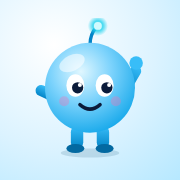
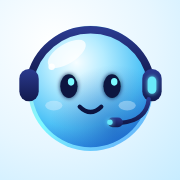
Nuevo personaje NavIA: variante C1 "Copiloto pulido"
Esfera azul claro con ojos luminosos, audífonos con micrófono, orbes
flotantes y base holográfica. Los audífonos van en un grupo aparte
(prop headset) para poder quitarlos. La versión compacta (sin base ni
orbes) se usa en el encabezado, el saludo del estudiante y los íconos.
Se regeneran icon.svg, apple-icon, los íconos de la PWA (incluido el
maskable) y public/brand/navia.svg, todos con fondo claro.

Claude-Session: https://claude.ai/code/session_01VyPdaHP5iYDTn8KeQqyUSR

diff --git a/src/features/brand/NaviaAgent.tsx b/src/features/brand/NaviaAgent.tsx
@@ -1,11 +1,28 @@
 /**
- * NavIA, el agente y copiloto: una bolita azul claro con cara, bracitos y piernitas, y una
- * antena que "escucha" la ruta. Diseño propio. `animated` la hace flotar, parpadear y saludar.
+ * NavIA, el agente y copiloto (variante C1 "Copiloto pulido"): una esfera azul claro con ojos
+ * luminosos, audífonos con micrófono, orbes flotantes y una base holográfica.
+ * - `animated`: flota, parpadea, los orbes orbitan y las luces laten (saludo de entrada).
+ * - `headset`: audífonos y micrófono; están en un solo grupo para poder quitarlos fácil.
+ * - `compact`: solo el personaje, sin base ni orbes; para el encabezado y tamaños pequeños.
+ * Los ids de los degradados llevan prefijo `nv-` para no chocar con otros SVG de la página.
  */
-export function NaviaAgent({ size = 96, animated = false, className = '' }: { size?: number; animated?: boolean; className?: string }) {
+export function NaviaAgent({
+  size = 96,
+  animated = false,
+  headset = true,
+  compact = false,
+  className = '',
+}: {
+  size?: number;
+  animated?: boolean;
+  headset?: boolean;
+  compact?: boolean;
+  className?: string;
+}) {
+  const a = (cls: string) => (animated ? cls : undefined);
   return (
     <svg
-      viewBox="0 0 128 128"
+      viewBox={compact ? '30 22 140 140' : '0 0 200 200'}
       width={size}
       height={size}
       role="img"
@@ -13,67 +30,109 @@ export function NaviaAgent({ size = 96, animated = false, className = '' }: { si
       className={`${animated ? 'agent-float' : ''} ${className}`}
     >
       <defs>
-        <radialGradient id="nb-body" cx="40%" cy="32%" r="75%">
-          <stop offset="0" stopColor="#e0f7ff" />
-          <stop offset="0.45" stopColor="#7dd3fc" />
-          <stop offset="1" stopColor="#0ea5e9" />
+        <radialGradient id="nv-body" cx="38%" cy="28%" r="80%">
+          <stop offset="0" stopColor="#F7FDFF" />
+          <stop offset=".3" stopColor="#B5ECFF" />
+          <stop offset=".7" stopColor="#4FC3F7" />
+          <stop offset="1" stopColor="#1F7BE0" />
         </radialGradient>
-        <linearGradient id="nb-limb" x1="0" y1="0" x2="0" y2="1">
-          <stop offset="0" stopColor="#38bdf8" />
-          <stop offset="1" stopColor="#0284c7" />
+        <radialGradient id="nv-shade" cx="70%" cy="85%" r="55%">
+          <stop offset="0" stopColor="#1243A8" stopOpacity=".45" />
+          <stop offset="1" stopColor="#1243A8" stopOpacity="0" />
+        </radialGradient>
+        <linearGradient id="nv-rim" x1="0" y1="0" x2="1" y2="1">
+          <stop offset="0" stopColor="#CBD5E1" />
+          <stop offset=".45" stopColor="#7DF9FF" />
+          <stop offset="1" stopColor="#60A5FA" />
         </linearGradient>
-        <radialGradient id="nb-glow" cx="50%" cy="50%" r="50%">
-          <stop offset="0" stopColor="#a5f3fc" />
-          <stop offset="0.5" stopColor="#22d3ee" stopOpacity="0.8" />
-          <stop offset="1" stopColor="#22d3ee" stopOpacity="0" />
+        <linearGradient id="nv-headset" x1="0" y1="0" x2="0" y2="1">
+          <stop offset="0" stopColor="#2B3A8F" />
+          <stop offset="1" stopColor="#121A4D" />
+        </linearGradient>
+        <linearGradient id="nv-beam" x1="0" y1="0" x2="0" y2="1">
+          <stop offset="0" stopColor="#67E8F9" stopOpacity="0" />
+          <stop offset="1" stopColor="#67E8F9" stopOpacity=".5" />
+        </linearGradient>
+        <radialGradient id="nv-glow" cx="50%" cy="50%" r="50%">
+          <stop offset="0" stopColor="#67E8F9" stopOpacity=".9" />
+          <stop offset="1" stopColor="#67E8F9" stopOpacity="0" />
         </radialGradient>
+        <filter id="nv-blur" x="-60%" y="-60%" width="220%" height="220%">
+          <feGaussianBlur stdDeviation="2.2" result="b" />
+          <feMerge>
+            <feMergeNode in="b" />
+            <feMergeNode in="SourceGraphic" />
+          </feMerge>
+        </filter>
       </defs>
 
-      <ellipse cx="64" cy="120" rx="26" ry="4" fill="#0c4a6e" opacity="0.15" />
-
-      {/* Piernitas */}
-      <rect x="47" y="96" width="11" height="20" rx="5.5" fill="url(#nb-limb)" />
-      <rect x="70" y="96" width="11" height="20" rx="5.5" fill="url(#nb-limb)" />
-      <ellipse cx="51" cy="116" rx="8" ry="4" fill="#0369a1" />
-      <ellipse cx="77" cy="116" rx="8" ry="4" fill="#0369a1" />
-
-      {/* Bracitos: el derecho saluda */}
-      <rect x="15" y="62" width="22" height="10" rx="5" fill="url(#nb-limb)" transform="rotate(25 26 67)" />
-      <g className={animated ? 'agent-wave' : ''} style={{ transformOrigin: '96px 60px' }}>
-        <rect x="92" y="40" width="10" height="24" rx="5" fill="url(#nb-limb)" transform="rotate(30 97 60)" />
-        <circle cx="105" cy="40" r="6" fill="#38bdf8" />
-      </g>
-
-      {/* Antena */}
-      <path d="M64 24 Q64 14 70 8" stroke="#0284c7" strokeWidth="3" fill="none" strokeLinecap="round" />
-      <circle cx="71" cy="7" r="9" fill="url(#nb-glow)" className={animated ? 'agent-pulse' : ''} />
-      <circle cx="71" cy="7" r="3.5" fill="#cffafe" />
+      {/* Base holográfica */}
+      {!compact && (
+        <g>
+          <path d="M76 146 L62 178 L138 178 L124 146 Z" fill="url(#nv-beam)" />
+          <ellipse cx="100" cy="180" rx="48" ry="10" fill="url(#nv-glow)" />
+          <ellipse cx="100" cy="180" rx="36" ry="5.5" fill="none" stroke="#22D3EE" strokeWidth="2.5" filter="url(#nv-blur)" className={a('agent-pulse')} />
+          <ellipse cx="100" cy="180" rx="22" ry="3" fill="none" stroke="#A5F3FC" strokeWidth="1.5" opacity=".8" />
+        </g>
+      )}
 
       {/* Cuerpo */}
-      <circle cx="64" cy="62" r="40" fill="url(#nb-body)" />
-      <ellipse cx="48" cy="40" rx="12" ry="7" fill="#fff" opacity="0.55" transform="rotate(-25 48 40)" />
+      <circle cx="100" cy="90" r="58" fill="url(#nv-rim)" />
+      <circle cx="100" cy="90" r="54.5" fill="url(#nv-body)" />
+      <circle cx="100" cy="90" r="54.5" fill="url(#nv-shade)" />
+      <ellipse cx="78" cy="58" rx="20" ry="9" fill="#fff" opacity=".75" transform="rotate(-32 78 58)" />
+      <circle cx="64" cy="70" r="3" fill="#fff" opacity=".9" />
 
       {/* Cara */}
-      <g className={animated ? 'agent-blink' : ''} style={{ transformOrigin: '64px 60px' }}>
-        <ellipse cx="51" cy="60" rx="8" ry="10" fill="#fff" />
-        <ellipse cx="77" cy="60" rx="8" ry="10" fill="#fff" />
-        <circle cx="53" cy="62" r="5" fill="#0b1b3a" />
-        <circle cx="79" cy="62" r="5" fill="#0b1b3a" />
-        <circle cx="55" cy="59.5" r="1.8" fill="#fff" />
-        <circle cx="81" cy="59.5" r="1.8" fill="#fff" />
+      <g filter="url(#nv-blur)" className={a('agent-blink')} style={{ transformOrigin: '100px 88px' }}>
+        <ellipse cx="80" cy="88" rx="8" ry="11" fill="#0B1440" />
+        <ellipse cx="120" cy="88" rx="8" ry="11" fill="#0B1440" />
+        <ellipse cx="82" cy="84" rx="3" ry="3.5" fill="#7DF9FF" />
+        <ellipse cx="122" cy="84" rx="3" ry="3.5" fill="#7DF9FF" />
       </g>
-      <circle cx="41" cy="74" r="4.5" fill="#f472b6" opacity="0.35" />
-      <circle cx="87" cy="74" r="4.5" fill="#f472b6" opacity="0.35" />
-      <path d="M55 77 Q64 85 73 77" stroke="#0b1b3a" strokeWidth="3" fill="none" strokeLinecap="round" />
+      <ellipse cx="66" cy="106" rx="8" ry="4.5" fill="#E0F2FE" opacity=".4" />
+      <ellipse cx="134" cy="106" rx="8" ry="4.5" fill="#E0F2FE" opacity=".4" />
+      <path d="M90 107 Q100 117 110 107" stroke="#0B1440" strokeWidth="4" fill="none" strokeLinecap="round" />
+
+      {/* Audífonos con micrófono */}
+      {headset && (
+        <g>
+          <path d="M44 82 A57 57 0 0 1 156 82" stroke="url(#nv-headset)" strokeWidth="7" fill="none" strokeLinecap="round" />
+          <rect x="148" y="72" width="18" height="30" rx="9" fill="url(#nv-headset)" />
+          <rect x="153" y="79" width="8" height="16" rx="4" fill="#67E8F9" filter="url(#nv-blur)" className={a('agent-pulse')} />
+          <rect x="34" y="72" width="18" height="30" rx="9" fill="url(#nv-headset)" />
+          <path d="M154 100 Q152 120 128 122" stroke="url(#nv-headset)" strokeWidth="4" fill="none" strokeLinecap="round" />
+          <rect x="116" y="117" width="14" height="9" rx="4.5" fill="url(#nv-headset)" />
+          <circle cx="118" cy="121.5" r="2.5" fill="#67E8F9" filter="url(#nv-blur)" className={a('agent-pulse')} />
+        </g>
+      )}
+
+      {/* Orbes y destellos */}
+      {!compact && (
+        <>
+          <g className={a('agent-orbit')}>
+            <circle cx="26" cy="112" r="12" fill="url(#nv-body)" stroke="url(#nv-rim)" strokeWidth="2" />
+            <ellipse cx="23" cy="108" rx="4" ry="2.5" fill="#fff" opacity=".7" />
+          </g>
+          <g className={a('agent-orbit agent-orbit-late')}>
+            <circle cx="176" cy="50" r="12" fill="url(#nv-body)" stroke="url(#nv-rim)" strokeWidth="2" />
+            <ellipse cx="173" cy="46" rx="4" ry="2.5" fill="#fff" opacity=".7" />
+          </g>
+          <path transform="translate(192 30)" d={SPARKLE} fill="#CBD5E1" filter="url(#nv-blur)" />
+          <path transform="translate(18 86) scale(0.6)" d={SPARKLE} fill="#7DF9FF" filter="url(#nv-blur)" />
+        </>
+      )}
     </svg>
   );
 }
+
+const SPARKLE = 'M0 -9 l2.2 6.8 6.8 2.2 -6.8 2.2 -2.2 6.8 -2.2 -6.8 -6.8 -2.2 6.8 -2.2z';
 
 /** Logotipo: el agente NavIA + la palabra "NavIA" con el degradado de la marca. */
 export function NaviaLogo({ size = 32 }: { size?: number }) {
   return (
     <span className="inline-flex items-center gap-2">
-      <NaviaAgent size={size} />
+      <NaviaAgent size={size} compact />
       <span className="brand-text text-xl font-extrabold tracking-tight">NavIA</span>
     </span>
   );

diff --git a/src/app/globals.css b/src/app/globals.css
@@ -56,11 +56,9 @@ body {
   0%, 92%, 100% { transform: scaleY(1); }
   95% { transform: scaleY(0.1); }
 }
-@keyframes agent-wave {
-  0%, 60%, 100% { transform: rotate(0); }
-  70% { transform: rotate(-14deg); }
-  80% { transform: rotate(10deg); }
-  90% { transform: rotate(-8deg); }
+@keyframes agent-orbit {
+  0%, 100% { transform: translate(0, 0); }
+  50% { transform: translate(2px, -7px); }
 }
 @keyframes agent-pulse {
   0%, 100% { opacity: 0.6; }
@@ -68,9 +66,10 @@ body {
 }
 .agent-float { animation: agent-float 3.2s ease-in-out infinite; }
 .agent-blink { animation: agent-blink 4.5s infinite; }
-.agent-wave { animation: agent-wave 3.5s ease-in-out infinite; }
+.agent-orbit { animation: agent-orbit 4s ease-in-out infinite; }
+.agent-orbit-late { animation-delay: -2s; }
 .agent-pulse { animation: agent-pulse 1.6s ease-in-out infinite; }
 
 @media (prefers-reduced-motion: reduce) {
-  .agent-float, .agent-blink, .agent-wave, .agent-pulse { animation: none; }
+  .agent-float, .agent-blink, .agent-orbit, .agent-pulse { animation: none; }
 }

diff --git a/src/app/(auth)/login/page.tsx b/src/app/(auth)/login/page.tsx
@@ -11,7 +11,7 @@ export default function LoginPage() {
   return (
     <main className="mx-auto flex min-h-dvh max-w-sm flex-col justify-center gap-6 p-6">
       <div className="flex flex-col items-center text-center">
-        <NaviaAgent size={132} animated />
+        <NaviaAgent size={150} animated />
         <h1 className="brand-text mt-2 text-5xl font-extrabold tracking-tight">NavIA</h1>
         <p className="mt-1 text-lg font-semibold">Tu copiloto de ruta</p>
         <p className="mt-1 text-sm text-slate-600">

diff --git a/src/features/trips/StudentHome.tsx b/src/features/trips/StudentHome.tsx
@@ -26,7 +26,7 @@ export function StudentHome({ initial }: { initial: Trip[] }) {
       <OfflineBanner online={online} />
 
       <div className="flex items-end gap-2">
-        <NaviaAgent size={52} animated />
+        <NaviaAgent size={52} animated compact />
         <p className="card relative mb-2 rounded-2xl rounded-bl-sm px-3 py-2 text-sm">
           {agentSays(live.length, next, now)}
         </p>
